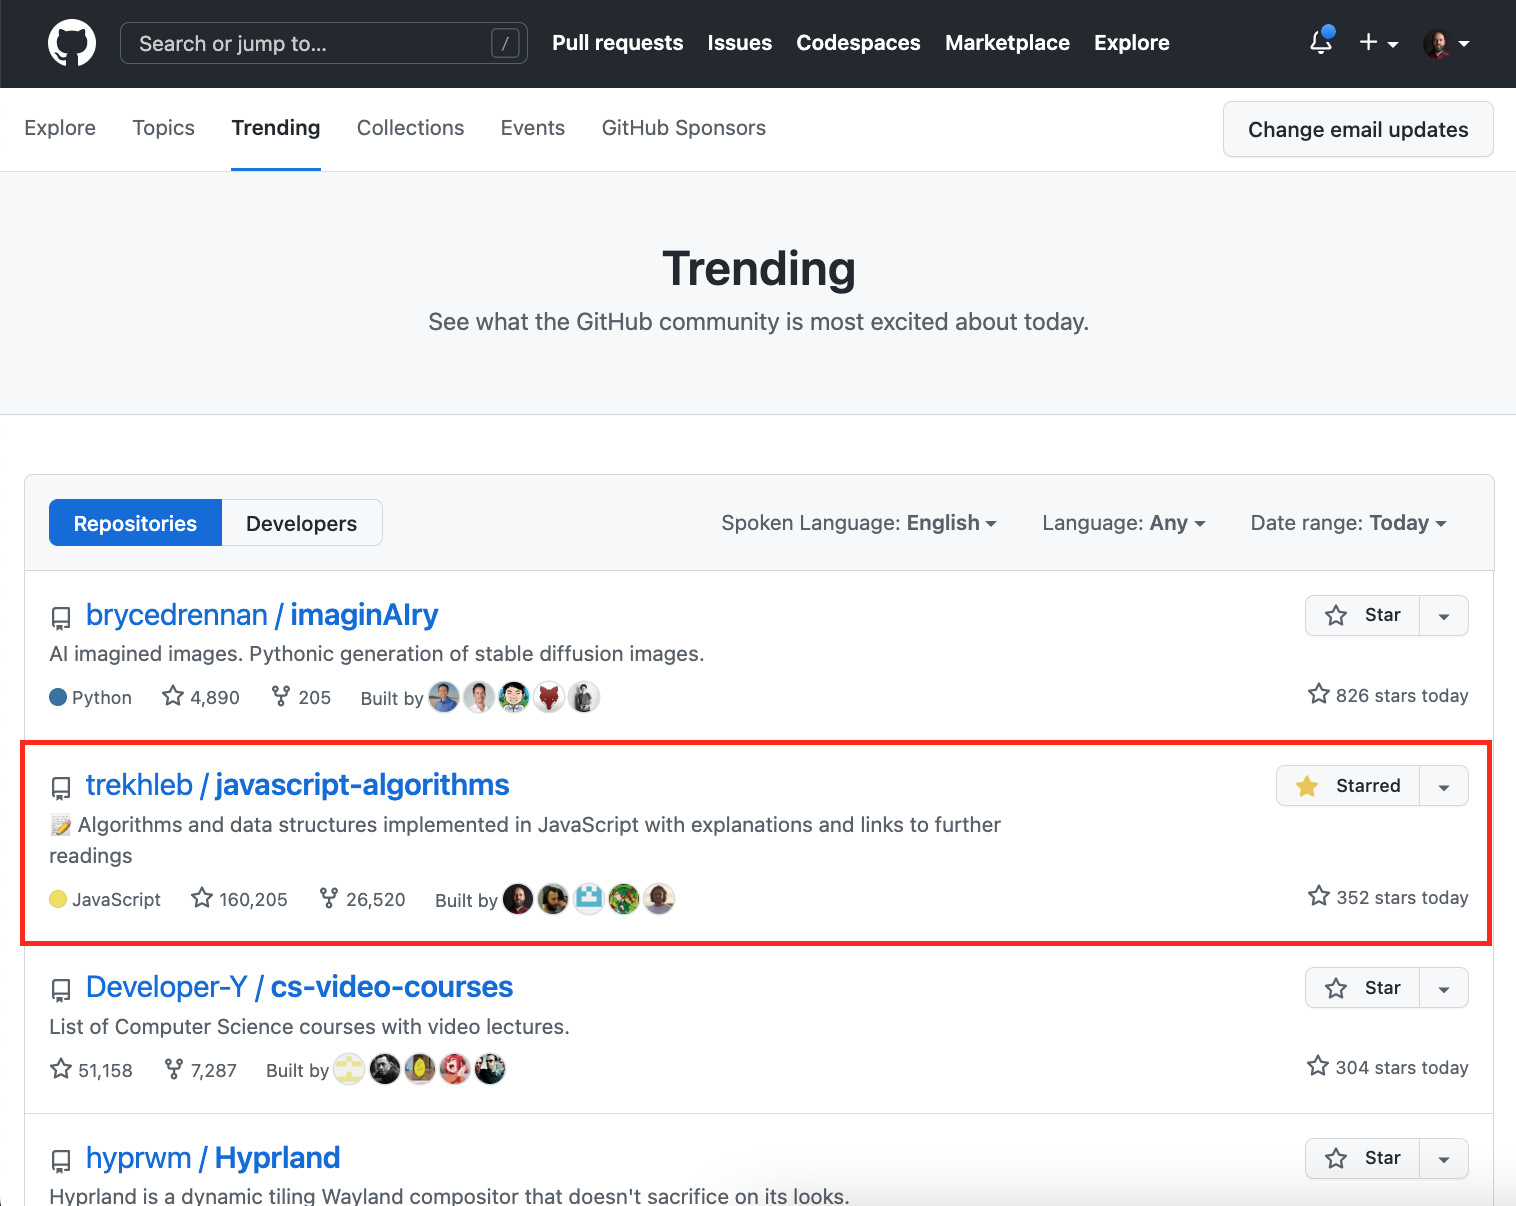
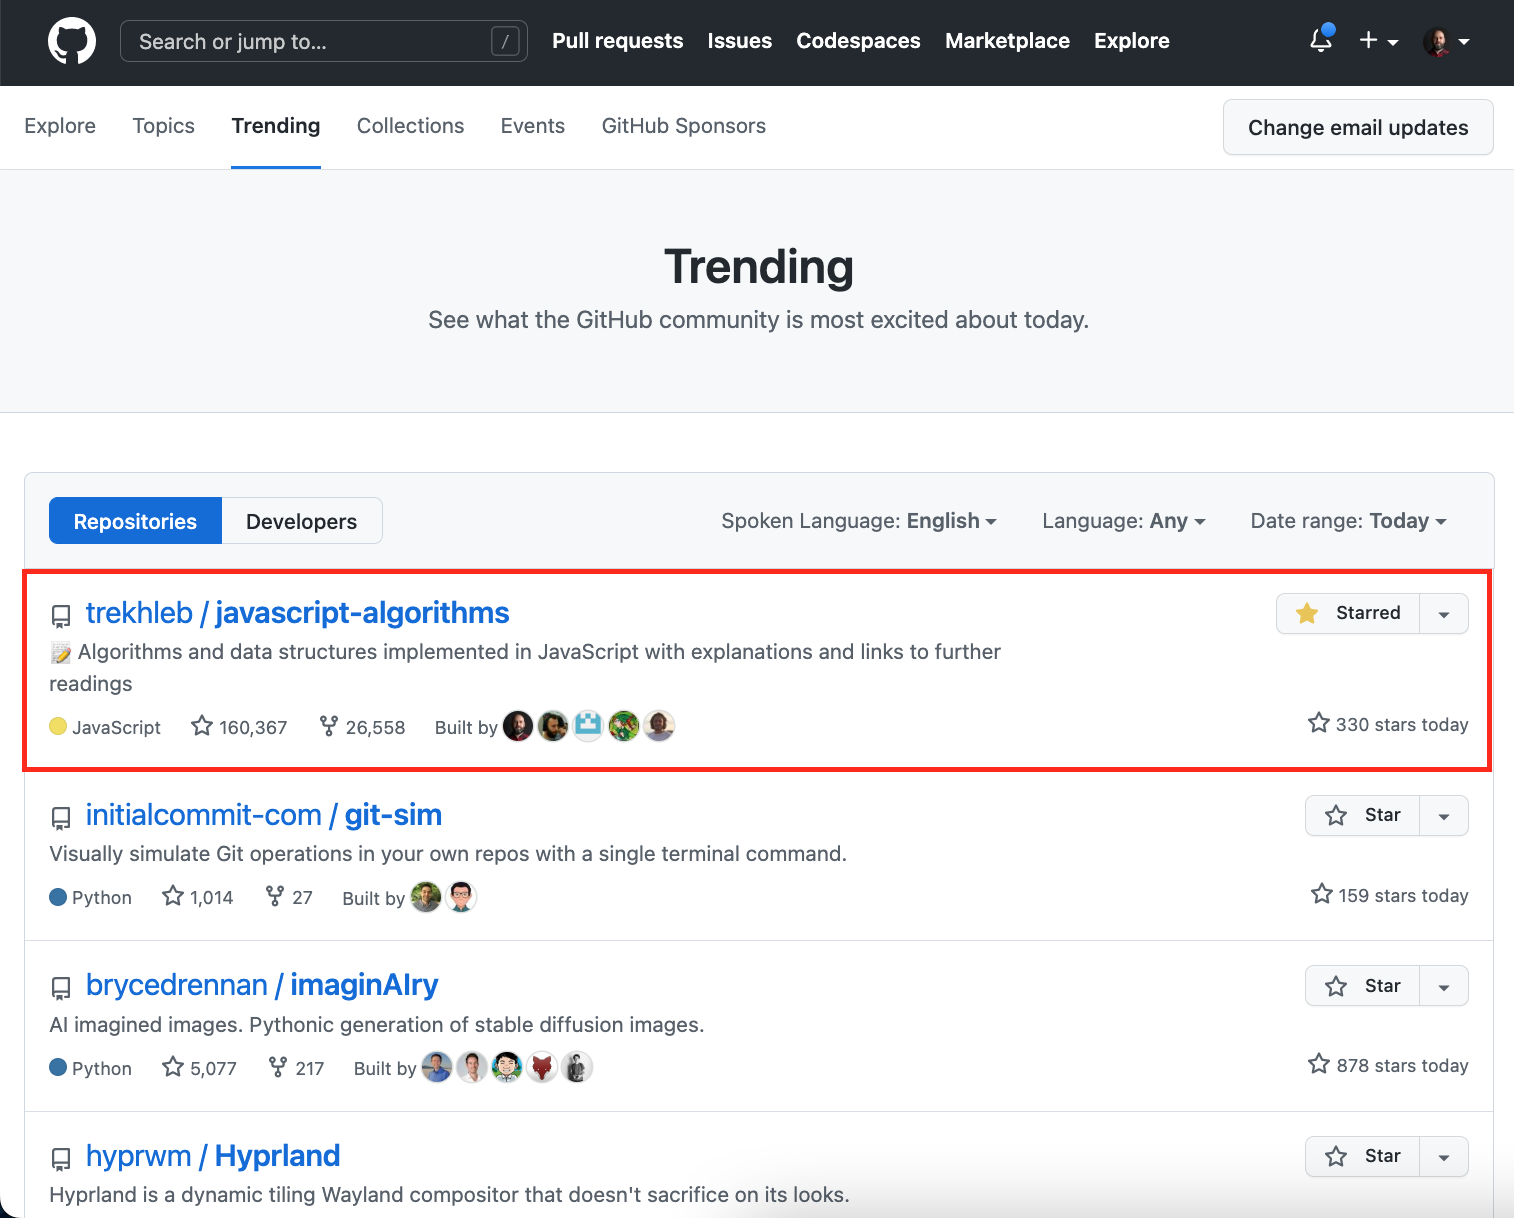
Add js-algo repo achievement.

diff --git a/src/data/projects.ts b/src/data/projects.ts
@@ -585,7 +585,7 @@ export const projects: Projects = {
         date: '2022-08-16',
       },
       {
-        title: '2nd trending repository of the day on GitHub',
+        title: '1st trending repository of the day on GitHub',
         image: { srcPath: 'projects/javascript-algorithms/achievements/15-github-trending-day-2023-01-25.png' },
         date: '2023-01-25',
       },
